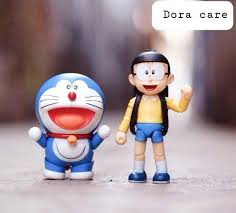
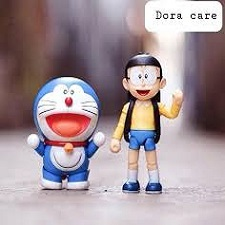
changing img size along with give same name of that div part

diff --git a/index.html b/index.html
@@ -6,15 +6,19 @@
     <meta name="viewport" content="width=device-width, initial-scale=1.0">
     <title>Favourite Cartoon</title>
     <link rel="stylesheet" href="styles.css">
+    <style>
+        @import url('https://fonts.googleapis.com/css2?family=Mukta&display=swap');
+        @import url('https://fonts.googleapis.com/css2?family=Lobster&family=Mukta&display=swap');
+        </style>
 </head>
 <body>
     <!-- Header Part -->
     <header class="heading">
         <div class="navigation">
-            <p>Home</p>
-            <p>About</p>
-            <p>GuideLines</p>
-            <p>Sign-up</p>
+           <a href="">Home</a>
+           <a href="">About</a>
+           <a href="">GuideLines</a>
+           <a href="">Sign up</a>
         </div>
         <section class="middle_part">
             <div class="part1">
@@ -40,24 +44,24 @@
         <p>My Some favourite cartoons</p>
         <!-- cartoon pictures -->
         <section class="cartoon_info">
-            <div class="doraemon">
+            <div class="Cartoon-image">
                 <img src="doraemon.jpg">
                 <p>It was started in a children's magazine in 1969. Doraemon is the name of a robot cat that came from the future to help a boy named Nobita Nobi. Doraemon is about the life of Nobita Nobi.
                 </p>
-            </div class="sinchan">
+            </div class="Cartoon-image">
             <div>
                 <img src="sinchan.jpg">
                 <p>
                     Shinchan is a Japanese manga series written and illustrated by Yoshito Usui. Crayon Shin-chan made its first appearance in 1990 in a Japanese weekly magazine called Weekly Manga Action, which was published by Futabasha.
                 </p>
             </div>
-            <div class="harry">
+            <div class="Cartoon-image">
                 <img src="harry.jpg">
                 <p>
                     Harry Potter is a series of seven fantasy novels written by British author J. K. Rowling. The novels chronicle the lives of a young wizard, Harry Potter.
                 </p>
             </div>
-            <div class="mr_bean">
+            <div class="Cartoon-image">
                 <img src="mr_bean.jpg">
                 <p>
                     Bean, is an animated sitcom produced by Tiger Aspect Productions in association with Richard Purdum Productions and Varga Holdings (for the first three series). Based on the 1990–1995 British live-action television sitcom of the same name created by Richard Curtis and Rowan Atkinson, the series centres on Mr.
@@ -68,27 +72,23 @@
     </section>
     <!-- quotes on cartoon -->
     <section class="quotes">
-        <p>
+        <p class="lobstar_style">
             The Best Cartoon Quotes
             Cartoon characters make childhood memorable and teach us some of the best life qualities, making each of us the person we are today. Let’s take a look at some of the best cartoon quotes to inspire you more.
 
-            1.  “The things that make me different are the things that make me”
+             “The things that make me different are the things that make me”
 
             - Winnie the Pooh, ‘Winnie The Pooh’.
 
-            2. “When one’s heart is overfilled with joy, some may spill from the eyes.”
+             “When one’s heart is overfilled with joy, some may spill from the eyes.”
 
-            - Fa Zhou, ‘Mulan II’.
-
-            3. “Your identity is your most valuable possession. Protect it.”
-
-            - Earthgirl, ‘The Incredibles’.
+            - Fa Zhou, ‘Mulan II’
         </p>
     </section>
     <!-- Additional info -->
     <section class="addition">
         <div class="div1">
-            <p>Want to know something more about Cartoons Characters?</p><br>
+            <p>Want to know something more about Cartoons Characters?</p>
             <p>A cartoon is a type of illustration that is typically drawn, sometimes animated, in an unrealistic or semi-realistic style.</p>
         </div>
         <div class="div2">

diff --git a/styles.css b/styles.css
@@ -12,6 +12,9 @@ body{
 .navigation{
     display: flex;
 }
+.big{
+    font-family: 'Mukta', sans-serif;
+}
 .middle_part{
     display: flex;
 }
@@ -25,22 +28,28 @@ body{
 }
 .cartoon_info{
     display: flex;
+    width: 50% 50%;
+    margin: 0 auto;
 }
 .quotes{
-    background-color: blanchedalmond;
+    background-color: rgb(161, 250, 191);
     border-radius: 7px;
-    padding: 10 px;
+    padding: 30 px;
 }
+.lobstar_style{
+    font-family: 'Lobster', cursive;
+    padding:30 px;
+}
+
 .addition{
     background-color: cornflowerblue;
     border-radius: 5px;
     padding:10px;
+    width:60%;
+    margin: 0 auto;
 
 }
 footer{
     background-color: indianred;
     margin: 0 auto;
-}
-.text{
-    align-items: center;
 }
